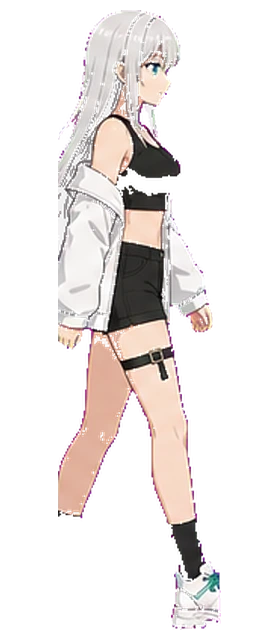
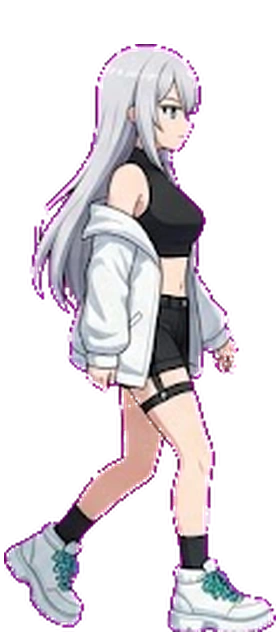
feat: use user-provided idle and 16-frame walk sprites

diff --git a/frontend/web/src/components/AgentPresence.tsx b/frontend/web/src/components/AgentPresence.tsx
@@ -8,7 +8,7 @@ type WalkMode = "idle" | "walk";
 
 const BODY_WIDTH = 150;
 const EDGE_PAD = 8;
-const WALK_FRAMES = 12;
+const WALK_FRAMES = 16;
 
 function randomBetween(min: number, max: number) {
   return min + Math.random() * (max - min);
@@ -155,7 +155,7 @@ export function AgentPresence({ busy = false }: AgentPresenceProps) {
       setFrame(0);
       return;
     }
-    const ms = busy ? 70 : 95;
+    const ms = busy ? 55 : 75;
     const id = window.setInterval(() => {
       setFrame((current) => (current + 1) % WALK_FRAMES);
     }, ms);
